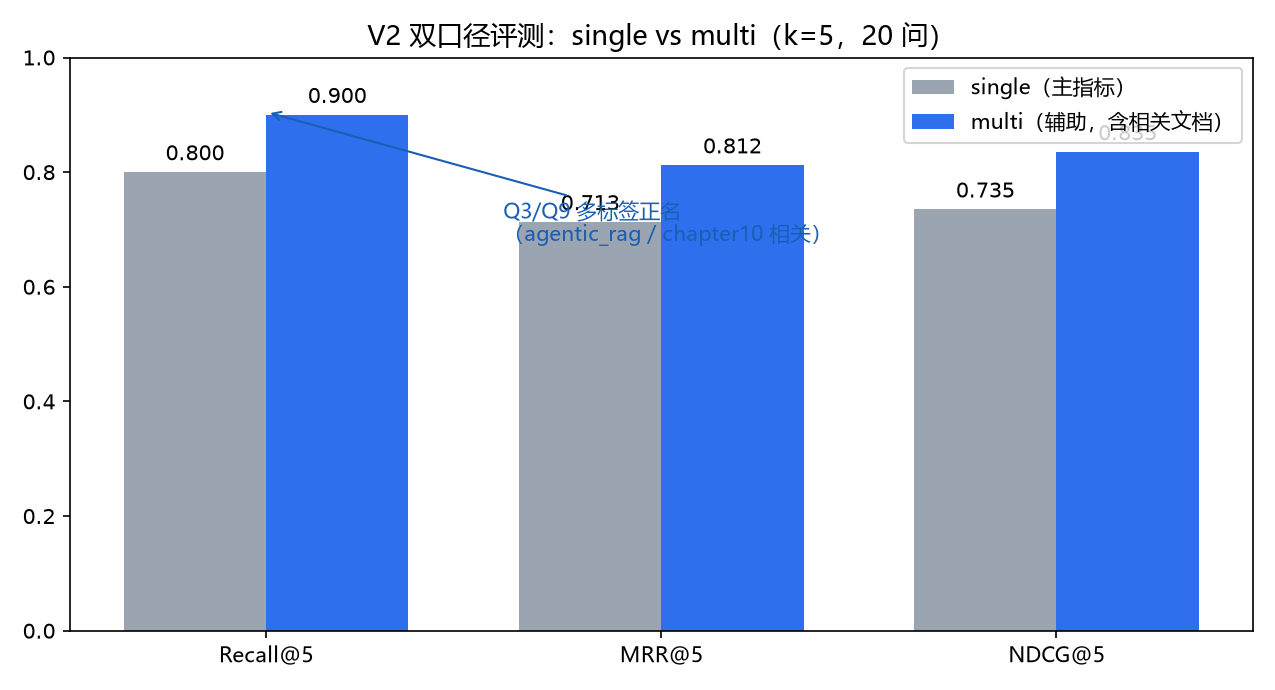
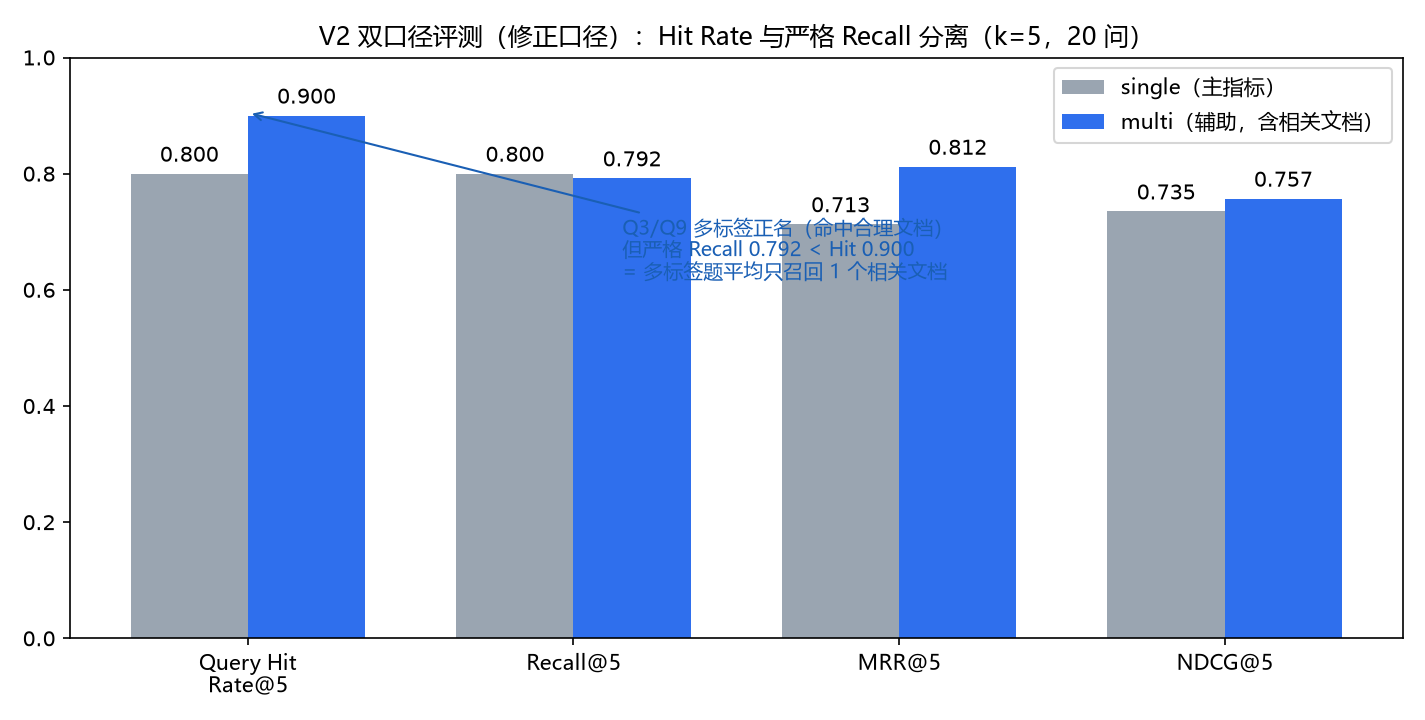
fix: eval metrics — Hit Rate vs strict Recall, correct IDCG; real Qdrant rerun (multi Recall 0.792) + hybrid execution plan

diff --git a/knowledge_docs/eval_rag.py b/knowledge_docs/eval_rag.py
@@ -32,21 +32,22 @@ def dcg(rels: list[int]) -> float:
     return sum(r / math.log2(i + 2) for i, r in enumerate(rels))
 
 
-def rel_sequence(top_src: list[str], targets: set[str]) -> tuple[list[int], int]:
-    """按目标集合计算 rel 序列与首个命中 rank（0 表示未命中）。
-    文档级去重：同一目标文档的后续 chunk 不再重复计 rel=1（每篇最多贡献一个 1）。"""
+def rel_sequence(top_src: list[str], targets: set[str]) -> tuple[list[int], int, int]:
+    """按目标集合计算 rel 序列、首个命中 rank 和相关文档命中数。"""
     rels: list[int] = []
     seen: set[str] = set()
     rank = 0
+    matched = 0
     for src in top_src:
         if src in targets and src not in seen:
             rels.append(1)
             seen.add(src)
+            matched += 1
             if rank == 0:
                 rank = len(rels)
         else:
             rels.append(0)
-    return rels, rank
+    return rels, rank, matched
 
 
 async def main(k: int) -> None:
@@ -62,25 +63,26 @@ async def main(k: int) -> None:
         hits = await store.search(emb, top_k=k, filters=filters)
         top_src = [Path(h.chunk.source).name for h in hits]
 
-        rels_s, rank_s = rel_sequence(top_src, targets_single)
-        rels_m, rank_m = rel_sequence(top_src, targets_multi)
+        rels_s, rank_s, matched_s = rel_sequence(top_src, targets_single)
+        rels_m, rank_m, matched_m = rel_sequence(top_src, targets_multi)
 
-        def metrics(rels, rank):
-            recall = 1.0 if rank else 0.0
+        def metrics(rels, rank, target_count, matched_count):
+            query_hit = 1.0 if rank else 0.0
+            recall = matched_count / target_count
             mrr = 1.0 / rank if rank else 0.0
-            # multi 口径下可能多个 rel=1：NDCG 的 IDCG = 相关文档数完美排序的增益
-            idcg = dcg([1] * sum(rels)) or 1.0
+            # IDCG 使用评测集合中的相关文档数，而不是当前结果中已命中的数量
+            idcg = dcg([1] * min(target_count, k)) or 1.0
             ndcg = dcg(rels) / idcg
-            return recall, mrr, ndcg
+            return query_hit, recall, mrr, ndcg
 
-        r_s = metrics(rels_s, rank_s)
-        r_m = metrics(rels_m, rank_m)
+        r_s = metrics(rels_s, rank_s, len(targets_single), matched_s)
+        r_m = metrics(rels_m, rank_m, len(targets_multi), matched_m)
         per_q.append({
             "qid": q["qid"], "expected": q["expected_doc"],
             "related": sorted(targets_multi),
             "rank_s": rank_s, "rank_m": rank_m,
-            "recall_s": r_s[0], "mrr_s": r_s[1], "ndcg_s": r_s[2],
-            "recall_m": r_m[0], "mrr_m": r_m[1], "ndcg_m": r_m[2],
+            "hit_s": r_s[0], "recall_s": r_s[1], "mrr_s": r_s[2], "ndcg_s": r_s[3],
+            "hit_m": r_m[0], "recall_m": r_m[1], "mrr_m": r_m[2], "ndcg_m": r_m[3],
             "top_src": top_src,
         })
 
@@ -99,8 +101,16 @@ async def main(k: int) -> None:
         return sum(x[key] for x in per_q) / n
 
     print(f"\n=== 汇总 (k={k}, {n} 问, document 级) ===")
-    print(f"[single 主指标] Recall@{k}: {avg('recall_s'):.3f} ({sum(x['recall_s'] for x in per_q)}/{n})  MRR: {avg('mrr_s'):.3f}  NDCG: {avg('ndcg_s'):.3f}")
-    print(f"[multi  辅助]  Recall@{k}: {avg('recall_m'):.3f} ({sum(x['recall_m'] for x in per_q)}/{n})  MRR: {avg('mrr_m'):.3f}  NDCG: {avg('ndcg_m'):.3f}")
+    print(
+        f"[single 主指标] Query Hit Rate@{k}: {avg('hit_s'):.3f}  "
+        f"Recall@{k}: {avg('recall_s'):.3f}  MRR: {avg('mrr_s'):.3f}  "
+        f"NDCG: {avg('ndcg_s'):.3f}"
+    )
+    print(
+        f"[multi  辅助]  Query Hit Rate@{k}: {avg('hit_m'):.3f}  "
+        f"Recall@{k}: {avg('recall_m'):.3f}  MRR: {avg('mrr_m'):.3f}  "
+        f"NDCG: {avg('ndcg_m'):.3f}"
+    )
     store.close()
 
 

diff --git a/knowledge_docs/RAG_V1_实现总结与改进方向.md b/knowledge_docs/RAG_V1_实现总结与改进方向.md
@@ -60,7 +60,7 @@
 
 快照结论：10/10 问题 Top-5 全相关，9/10 预期文档排第 1；发现 **2 处 frontmatter 噪音**（纯 YAML 元数据混入 Top-5，Q8 的 frontmatter score=0.802 甚至压过正文）。
 
-### 2.3 golden 集硬指标（20 问，业界标准）
+### 2.3 golden 集硬指标（20 问，历史 single 口径）
 
 ![20 问命中位次](./eval_rank_20q.png)
 
@@ -71,7 +71,7 @@
 | NDCG@k | **0.755** | 0.755 |
 
 - 匹配口径：document 级（chunk 的 source 文件名 == golden 预期文档，同文档重复 chunk 只计首次）
-- 20 问 golden 已逐篇对照原文标题结构人工验证（`golden_set.json`）
+- 20 问 golden 已逐篇对照原文标题结构人工验证（`golden_set.json`）。这里的结果是 V1 基线和 V2 初始对比使用的 single 口径；当前报告同时提供 related_docs 的 multi 辅助口径。
 
 ## 三、V2 改良（2026-10-07）与重测结果
 
@@ -102,16 +102,19 @@
 | MRR@5 | 0.709 | **0.713** | +0.004（超 V1）|
 | NDCG@5 | 0.755 | 0.735 | -0.020 |
 
-**双口径评测（2026-10-07）**：为 Q2/Q3/Q9/Q16/Q18/Q19 六题标注 `related_docs`（确实存在多合理答案），single 命中 expected_doc / multi 命中任一相关文档：
+**双口径评测（2026-10-07，真实索引重跑）**：为 Q2/Q3/Q9/Q16/Q18/Q19 六题标注 `related_docs`（确实存在多合理答案），single 命中 expected_doc / multi 命中任一相关文档：
 
-| 口径 | Recall@5 | MRR@5 | NDCG@5 |
-|---|---|---|---|
-| single（主指标）| 0.800 (16/20) | 0.713 | 0.735 |
-| multi（辅助）| **0.900 (18/20)** | **0.812** | **0.835** |
+| 口径 | Query Hit Rate@5 | Recall@5 | MRR@5 | NDCG@5 |
+|---|---:|---:|---:|---:|
+| single（主指标）| 0.800 (16/20) | 0.800 | 0.713 | 0.735 |
+| multi（辅助）| **0.900 (18/20)** | **0.792** | **0.812** | **0.757** |
+
+（k=8 与 k=5 一致：multi Hit 0.900 / Recall 0.792；k=5/k=8 相关文档均在 top-5 内或未进 top-8。）
 
 ![V2 双口径评测](./eval_v2_dual_metric.png)
 
-逐问：**救回 3 题**（Q5 多头注意力 5→1、Q11 MCP 4→1、Q19 Workflow 5→2，Q14/Q17 前移）；**2 题被多标签正名**（Q3/Q9）。
+- **Hit Rate (0.900) ≠ Recall (0.792)**：多标签题普遍只召回 1 个相关文档——Q3 仅召回 agentic_rag（漏 rag_interview）、Q9 仅召回 chapter10（3 个 related 只中 1 个）、Q19 仅召回 agent_vs_workflow（漏 dynamic_workflows）。**结果多样性不足的量化证据**。
+- 逐问：**救回 3 题**（Q5 多头注意力 5→1、Q11 MCP 4→1、Q19 Workflow 5→2，Q14/Q17 前移）；**2 题被多标签正名**（Q3/Q9）。
 
 ### 3.4 V2 结论
 
@@ -128,9 +131,9 @@
 
 1. **主链路打通且质量达标**：187 篇文档全量入库 0 失败；检索 16/20 预期文档可召回，14/20 排第 1（V2）；Root Agent 自动检索 + knowledge_search 工具已接入。
 2. **可复现评估体系已建立**：golden 集 + 指标脚本 + 基线报告，chunker/检索策略的任何改动都能用同一套数据量化对比（V1→V2 已实证）。
-3. **V2 已知缺陷（改进靶子）**：
-   - **2 个召回硬缺陷**：Q16 幻觉治理、Q18 框架对比——k=8 仍召不回，泛词被 generic 文档抢占（V1 就有，指向 P2 Hybrid）；
-   - **2 个长尾问题**：Q3 单标签口径局限（实际双文档相关）、Q9 大部头章节淹没；
+3. **V2 已知问题（改进靶子）**：
+   - **2 个召回硬缺陷**：Q16 幻觉治理、Q18 框架对比——single 与 multi 均未召回相关文档，指向 P2 Hybrid；
+   - **2 个结果多样性问题**：Q3、Q9 在 multi 口径下已命中合理文档，但 Top-K 被单一文档多个 chunk 霸榜，指向 Document Aggregation；
    - **已解决**：frontmatter/空壳噪音、Q5/Q11 排序缺陷。
 
 ## 四、后续改进方向（按优先级）

diff --git a/knowledge_docs/eval_baseline.md b/knowledge_docs/eval_baseline.md
@@ -56,14 +56,25 @@
 - Q18：Top-5 = chapter1 / agent_vs_workflow，**连 related_docs（harness_interview）都没进 Top-5**。
 - 结论：多标签口径无法救回这两题——不是评测判错，而是**检索确实没有返回任何合理相关的文档**。这是纯向量 top-k 的语义近邻竞争 + 专名/文体不匹配，正是 P2 Hybrid Search（BM25）的目标。
 
-## 双口径评测结果（2026-10-07，k=5）
+## 双口径评测结果（2026-10-07，真实索引重跑）
 
-| 口径 | Recall@5 | MRR@5 | NDCG@5 |
-|---|---|---|---|
-| single（主） | 0.800 (16/20) | 0.713 | 0.735 |
-| multi（辅助） | **0.900 (18/20)** | **0.812** | **0.835** |
+**k=5：**
+
+| 口径 | Query Hit Rate@5 | Recall@5 | MRR@5 | NDCG@5 |
+|---|---:|---:|---:|---:|
+| single（主） | 0.800 (16/20) | 0.800 | 0.713 | 0.735 |
+| multi（辅助） | **0.900 (18/20)** | **0.792** | **0.812** | **0.757** |
+
+**k=8（与 k=5 一致，相关文档均在 top-5 内或未进 top-8）：**
+
+| 口径 | Query Hit Rate@8 | Recall@8 | MRR@8 | NDCG@8 |
+|---|---:|---:|---:|---:|
+| single（主） | 0.800 (16/20) | 0.800 | 0.713 | 0.735 |
+| multi（辅助） | **0.900 (18/20)** | **0.792** | **0.812** | **0.757** |
 
 - 差异来源：Q3、Q9 两题（multi 命中、single MISS）——正是先前归因"单标签口径局限"的两题，现已实证。
+- `Query Hit Rate` 表示每题是否至少命中一个相关文档；严格 `Recall@k` 表示命中的相关文档数占该题 related_docs 总数。
+- **Hit Rate (0.900) ≠ Recall (0.792)**：多标签题普遍只召回 1 个相关文档——Q3 仅召回 agentic_rag（漏 rag_interview）、Q9 仅召回 chapter10（3 个 related 只中 1 个）、Q19 仅召回 agent_vs_workflow（漏 dynamic_workflows）。这是**结果多样性不足**的量化证据，与单文档霸榜同源。
 - Q16/Q18 两口径均 MISS → **真缺陷确认**，评测修正不会掩盖真实问题，这是双口径设计的价值。
 - Q2/Q19 的 related 文档未改变判定（expected 本身已命中）。
 
